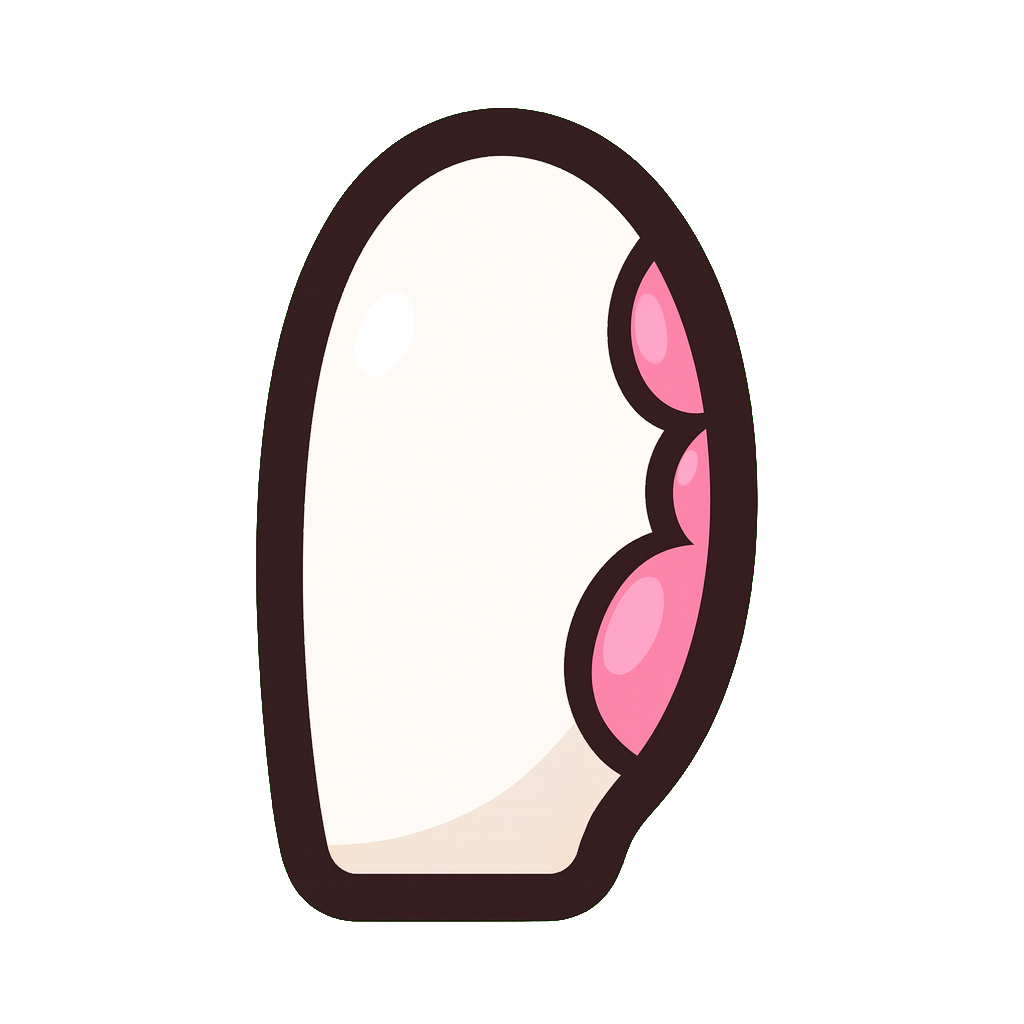
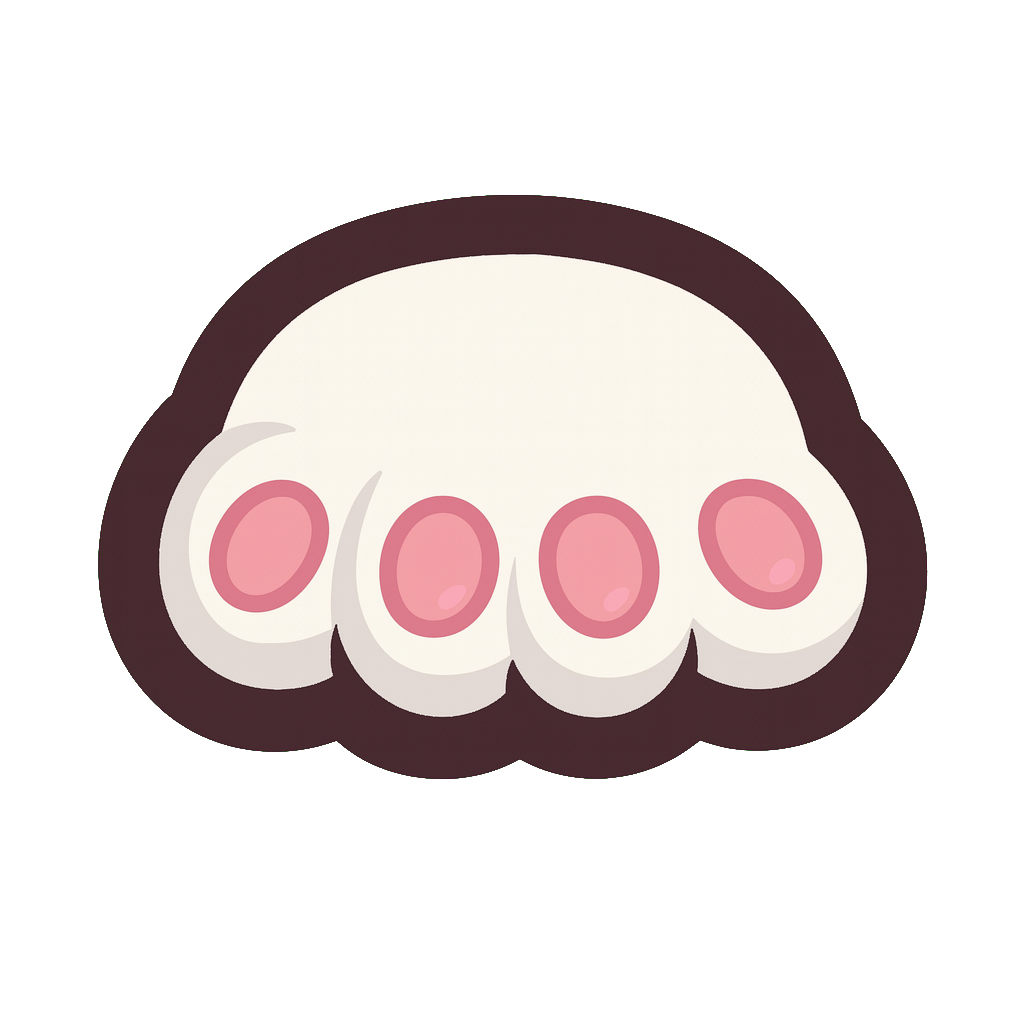
Pata virando: o giro é de cima para baixo, não de lado
Entre o dorso (dedos para baixo) e a palma (dedos para cima) a pata vira
num eixo deitado; no meio do giro ela aparece larga e achatada, com a
ponta dos quatro dedos de frente e um feijãozinho rosa em cada. A pose
antiga girava de lado (estreita, rosa na lateral) e, espelhada na pata
direita, punha o rosa do lado errado. Vetor e pintura refeitos (a nova é
simétrica e serve às duas patas).

Claude-Session: https://claude.ai/code/session_016m98KjnsXvrqZgBks7Crak

Changed region(s): [[0.0938, 0.0938, 0.9062, 0.9062]]

diff --git a/dist/dice-duel.html b/dist/dice-duel.html
@@ -3789,7 +3789,7 @@ window.PATAS_PINTADAS = Object.assign(window.PATAS_PINTADAS || {}, {
[5 lines of base64/hex data omitted]
 });
 
 </script>
@@ -3802,8 +3802,8 @@ window.PATAS_PINTADAS = Object.assign(window.PATAS_PINTADAS || {}, {
  * Cada dado é da pata do lado dele: o da esquerda, a pata da esquerda; o da direita, a da direita; o do meio, qualquer
  * uma (meio a meio). Erguer a pata é ela crescer um pouco e a sombra no feltro se afastar, como se viesse na direção de
  * quem olha. Com as animações desligadas (Ajustes ou "reduzir movimento"), as patas ficam paradas na borda.
- * A pata é um sprite de quatro poses, trocadas como quadros: "dorso" (vista de cima, apoiada), "virando" (de lado, a
- * beirada rosa das almofadinhas aparecendo), "palma" (a pata erguida, de frente: a almofada maior e os quatro
+ * A pata é um sprite de quatro poses, trocadas como quadros: "dorso" (vista de cima, apoiada), "virando" (no meio do
+ * giro de cima para baixo: larga e achatada, a ponta dos dedos de frente, um feijãozinho rosa em cada), "palma" (a pata erguida, de frente: a almofada maior e os quatro
  * feijõezinhos rosa) e "gancho" (os dedos dobrados por cima da aresta do dado, as pontinhas rosa pegando na face).
  * A investida: dorso → virando → palma ao erguer; palma → virando → gancho ao descer na aresta; puxa; gancho →
  * virando → dorso ao voltar. A pata da direita é o espelho da da esquerda.
@@ -3861,14 +3861,19 @@ window.PATAS_PINTADAS = Object.assign(window.PATAS_PINTADAS || {}, {
       + almofada(L, 0, L * 0.3, 0.95)
       + feijao(-0.56, -0.2, 0.95) + feijao(-0.2, -0.5, 1) + feijao(0.2, -0.5, 1) + feijao(0.56, -0.2, 0.95);
   }
-  // virando: a pata de lado, no meio do giro: estreita, com a beirada rosa das almofadinhas aparecendo de um lado
-  function virando(L, k) {
-    const rx = L * 0.5, ry = L * 0.84, id = `pata-giro-${k}`;
-    return `<defs><clipPath id="${id}"><ellipse cx="0" cy="0" rx="${rx}" ry="${ry}"/></clipPath></defs>`
-      + el(0, 0, rx, ry, PELO)
-      + `<g clip-path="url(#${id})">${el(rx * 0.75, -ry * 0.45, L * 0.17, L * 0.2, ROSA)}${el(rx * 0.95, -ry * 0.05, L * 0.16, L * 0.2, ROSA)}${el(rx * 0.85, ry * 0.42, L * 0.3, L * 0.3, ROSA)}</g>`
-      + el(0, 0, rx, ry, 'none', 0.2, L)
-      + `<path d="M${-rx * 0.55} ${-ry * 0.5} q ${-rx * 0.35} ${ry * 0.5} 0 ${ry}" fill="none" stroke="${SOMBRA}" stroke-width="${L * 0.14}" stroke-linecap="round"/>`;
+  // virando: o meio do giro entre o dorso (dedos para baixo, palma no feltro) e a palma (dedos para cima, almofadas de
+  // frente). O giro é de cima para baixo, num eixo deitado: no meio dele a pata aparece larga e achatada, com a ponta
+  // dos quatro dedos virada para quem olha e um feijãozinho rosa em cada um (a almofada maior ainda não aparece).
+  // Simétrica: serve às duas patas sem trocar de lado
+  function virando(L) {
+    const borda = L * 0.2;
+    const formas = [[0, -L * 0.14, L * 0.86, L * 0.44], ...[-0.6, -0.2, 0.2, 0.6].map(x => [x * L, L * 0.18, L * 0.29, L * 0.29])];
+    const contorno = formas.map(([x, y, rx, ry]) => el(x, y, rx + borda / 2, ry + borda / 2, CACAU)).join('');
+    const pelo = formas.map(([x, y, rx, ry]) => el(x, y, rx - borda / 2, ry - borda / 2, PELO)).join('');
+    const feijao = formas.slice(1).map(([x, y]) => el(x, y + L * 0.05, L * 0.1, L * 0.11, ROSA, 0, L, ` stroke="${ROSA_SOMBRA}" stroke-width="${L * 0.04}"`)).join('');
+    return contorno + pelo
+      + `<path d="M${-L * 0.6} ${-L * 0.36} q ${L * 0.6} ${-L * 0.22} ${L * 1.2} 0" fill="none" stroke="${SOMBRA}" stroke-width="${L * 0.12}" stroke-linecap="round"/>`
+      + feijao;
   }
   // gancho: os dedos dobrados por cima da aresta do dado. A palma (uma elipse larga) e quatro dedos redondos em arco
   // na ponta, num contorno só (primeiro tudo em cacau, mais grosso; por cima, tudo em branco); entre os dedos, vãos

diff --git a/js/patas_pintadas.js b/js/patas_pintadas.js
@@ -5,5 +5,5 @@ window.PATAS_PINTADAS = Object.assign(window.PATAS_PINTADAS || {}, {
[5 lines of base64/hex data omitted]
 });

diff --git a/js/pata.js b/js/pata.js
@@ -6,8 +6,8 @@
  * Cada dado é da pata do lado dele: o da esquerda, a pata da esquerda; o da direita, a da direita; o do meio, qualquer
  * uma (meio a meio). Erguer a pata é ela crescer um pouco e a sombra no feltro se afastar, como se viesse na direção de
  * quem olha. Com as animações desligadas (Ajustes ou "reduzir movimento"), as patas ficam paradas na borda.
- * A pata é um sprite de quatro poses, trocadas como quadros: "dorso" (vista de cima, apoiada), "virando" (de lado, a
- * beirada rosa das almofadinhas aparecendo), "palma" (a pata erguida, de frente: a almofada maior e os quatro
+ * A pata é um sprite de quatro poses, trocadas como quadros: "dorso" (vista de cima, apoiada), "virando" (no meio do
+ * giro de cima para baixo: larga e achatada, a ponta dos dedos de frente, um feijãozinho rosa em cada), "palma" (a pata erguida, de frente: a almofada maior e os quatro
  * feijõezinhos rosa) e "gancho" (os dedos dobrados por cima da aresta do dado, as pontinhas rosa pegando na face).
  * A investida: dorso → virando → palma ao erguer; palma → virando → gancho ao descer na aresta; puxa; gancho →
  * virando → dorso ao voltar. A pata da direita é o espelho da da esquerda.
@@ -65,14 +65,19 @@
       + almofada(L, 0, L * 0.3, 0.95)
       + feijao(-0.56, -0.2, 0.95) + feijao(-0.2, -0.5, 1) + feijao(0.2, -0.5, 1) + feijao(0.56, -0.2, 0.95);
   }
-  // virando: a pata de lado, no meio do giro: estreita, com a beirada rosa das almofadinhas aparecendo de um lado
-  function virando(L, k) {
-    const rx = L * 0.5, ry = L * 0.84, id = `pata-giro-${k}`;
-    return `<defs><clipPath id="${id}"><ellipse cx="0" cy="0" rx="${rx}" ry="${ry}"/></clipPath></defs>`
-      + el(0, 0, rx, ry, PELO)
-      + `<g clip-path="url(#${id})">${el(rx * 0.75, -ry * 0.45, L * 0.17, L * 0.2, ROSA)}${el(rx * 0.95, -ry * 0.05, L * 0.16, L * 0.2, ROSA)}${el(rx * 0.85, ry * 0.42, L * 0.3, L * 0.3, ROSA)}</g>`
-      + el(0, 0, rx, ry, 'none', 0.2, L)
-      + `<path d="M${-rx * 0.55} ${-ry * 0.5} q ${-rx * 0.35} ${ry * 0.5} 0 ${ry}" fill="none" stroke="${SOMBRA}" stroke-width="${L * 0.14}" stroke-linecap="round"/>`;
+  // virando: o meio do giro entre o dorso (dedos para baixo, palma no feltro) e a palma (dedos para cima, almofadas de
+  // frente). O giro é de cima para baixo, num eixo deitado: no meio dele a pata aparece larga e achatada, com a ponta
+  // dos quatro dedos virada para quem olha e um feijãozinho rosa em cada um (a almofada maior ainda não aparece).
+  // Simétrica: serve às duas patas sem trocar de lado
+  function virando(L) {
+    const borda = L * 0.2;
+    const formas = [[0, -L * 0.14, L * 0.86, L * 0.44], ...[-0.6, -0.2, 0.2, 0.6].map(x => [x * L, L * 0.18, L * 0.29, L * 0.29])];
+    const contorno = formas.map(([x, y, rx, ry]) => el(x, y, rx + borda / 2, ry + borda / 2, CACAU)).join('');
+    const pelo = formas.map(([x, y, rx, ry]) => el(x, y, rx - borda / 2, ry - borda / 2, PELO)).join('');
+    const feijao = formas.slice(1).map(([x, y]) => el(x, y + L * 0.05, L * 0.1, L * 0.11, ROSA, 0, L, ` stroke="${ROSA_SOMBRA}" stroke-width="${L * 0.04}"`)).join('');
+    return contorno + pelo
+      + `<path d="M${-L * 0.6} ${-L * 0.36} q ${L * 0.6} ${-L * 0.22} ${L * 1.2} 0" fill="none" stroke="${SOMBRA}" stroke-width="${L * 0.12}" stroke-linecap="round"/>`
+      + feijao;
   }
   // gancho: os dedos dobrados por cima da aresta do dado. A palma (uma elipse larga) e quatro dedos redondos em arco
   // na ponta, num contorno só (primeiro tudo em cacau, mais grosso; por cima, tudo em branco); entre os dedos, vãos

diff --git a/docs/design.md b/docs/design.md
@@ -382,7 +382,10 @@ sombra no feltro se afastar.
 
 A pata é um **sprite de quatro poses**, trocadas como quadros (vetor, no traço de cacau e no branco da Diana):
 - **dorso:** vista de cima, apoiada na borda, com os vãos dos dedos;
-- **virando:** de lado, estreita, com a beirada rosa das almofadinhas aparecendo;
+- **virando:** o meio do giro entre o dorso e a palma. O giro é de cima para baixo, num eixo deitado (os dedos vão de
+  apontar para baixo a apontar para cima), então no meio dele a pata aparece larga e achatada, com a ponta dos quatro
+  dedos de frente e um feijãozinho rosa em cada. Até a v0.14 inicial era um giro de lado (estreita, o rosa na
+  lateral), que não casava com a virada de cima para baixo e, na pata direita espelhada, punha o rosa do lado errado;
 - **palma:** erguida, de frente para quem olha: a almofada maior, de três lobos, e os quatro feijõezinhos rosa em arco;
 - **gancho:** os dedos dobrados por cima da aresta do dado, com as quatro pontinhas rosa apertando a face dele.
 
